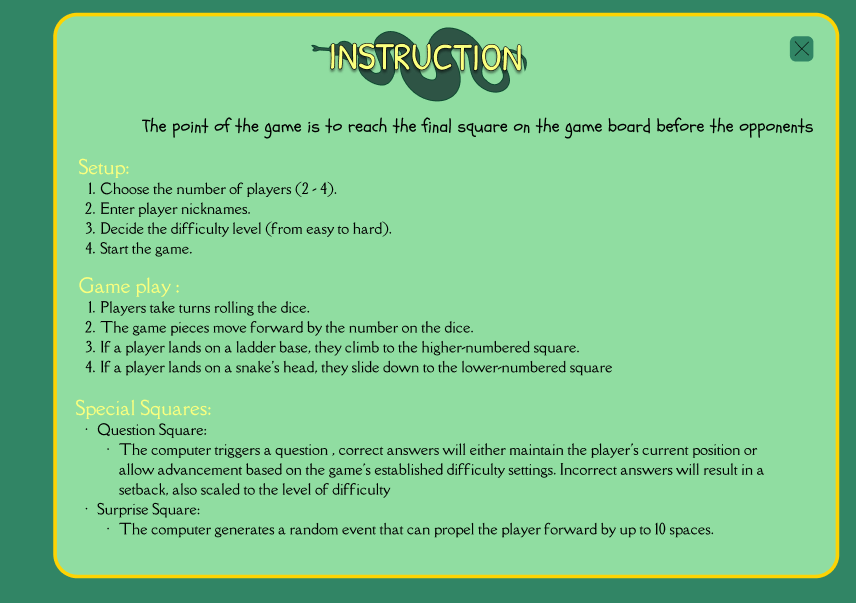
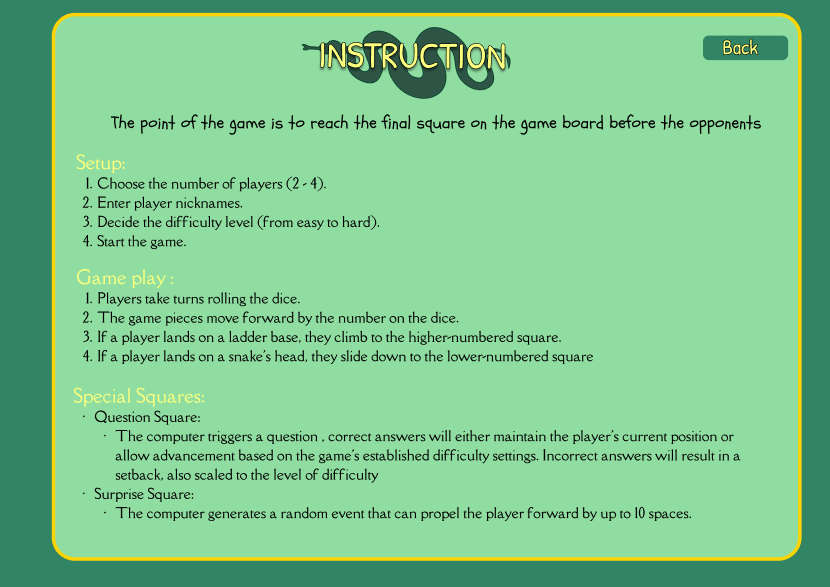
updated instructions view

diff --git a/src/View/GameHistory.java b/src/View/GameHistory.java
@@ -14,6 +14,7 @@ import Model.Questions;
 import Model.SysData;
 
 import java.lang.reflect.Type;
+import javax.swing.table.DefaultTableCellRenderer;
 
 public class GameHistory extends JFrame {
     private JTable table;
@@ -41,7 +42,8 @@ public class GameHistory extends JFrame {
 
         tableModel = new DefaultTableModel() {
             @Override
-            public boolean isCellEditable(int row, int column) {
+            public boolean isCellEditable(int row, int column)
+            {	
                 return false; // Make all cells non-editable
             }
         };
@@ -52,11 +54,45 @@ public class GameHistory extends JFrame {
         tableModel.addColumn("Time");
         
         table = new JTable(tableModel);
-        JScrollPane scrollPane = new JScrollPane(table);
-        table.setFillsViewportHeight(true);
         
-        // Add the JTable to the JFrame
+     // Center text in table cells
+     DefaultTableCellRenderer centerRenderer = new DefaultTableCellRenderer();
+     centerRenderer.setHorizontalAlignment(JLabel.CENTER);
+     table.setDefaultRenderer(Object.class, centerRenderer);
+     table.getTableHeader().setReorderingAllowed(false); // Prevent column reordering
+     table.setFont(new Font("Serif", Font.BOLD, 20)); // Set the table font size
+
+     DefaultTableCellRenderer headerRenderer = new DefaultTableCellRenderer();
+     headerRenderer.setHorizontalAlignment(JLabel.CENTER); // Center text
+     headerRenderer.setForeground(Color.BLACK);
+  // Apply the renderer to each column header
+     for (int i = 0; i < table.getModel().getColumnCount(); i++) {
+         table.getColumnModel().getColumn(i).setHeaderRenderer(headerRenderer);
+     }
+
+     // Custom renderer for table cells
+     DefaultTableCellRenderer cellRenderer = new DefaultTableCellRenderer();
+     cellRenderer.setHorizontalAlignment(JLabel.CENTER); // Center text
+     cellRenderer.setBackground(Color.blue);
+     cellRenderer.setFont(new Font("Serif", Font.BOLD, 30)); // Set font
+
+
+     // Apply the renderer to each column
+     for (int i = 0; i < table.getModel().getColumnCount(); i++) {
+         table.getColumnModel().getColumn(i).setCellRenderer(cellRenderer);
+     }
+     // Set row height and remove grid lines for a cleaner look
+     table.setRowHeight(30); // Adjust row height as needed
+     table.setShowGrid(false);
+        table.setShowHorizontalLines(false);
+        table.setShowVerticalLines(false);
+     // Add the JScrollPane to the JFrame and center it
+        setLayout(new BorderLayout());
+        JScrollPane scrollPane = new JScrollPane(table);
         add(scrollPane, BorderLayout.CENTER);
+        table.setFillsViewportHeight(true);
+        table.setForeground(Color.WHITE);
+      
      // Add rows to the table model
         if (gameList != null) {
             for (GameDetails details : gameList) {
@@ -64,6 +100,7 @@ public class GameHistory extends JFrame {
                 tableModel.addRow(row);
             }
         }
+        
   
     }
 
@@ -82,4 +119,7 @@ public class GameHistory extends JFrame {
 	public void setTableModel(DefaultTableModel tableModel) {
 		this.tableModel = tableModel;
 	}
+	
+
+	
 }

diff --git a/src/View/Instructions.java b/src/View/Instructions.java
@@ -1,0 +1,49 @@
+package View;
+
+import java.awt.EventQueue;
+import javax.swing.ImageIcon;
+import javax.swing.JFrame;
+import javax.swing.JPanel;
+import javax.swing.border.EmptyBorder;
+import javax.swing.JLabel;
+import java.awt.Window.Type;
+import java.awt.event.MouseAdapter;
+import java.awt.event.MouseEvent;
+import java.awt.Font;
+import java.awt.Color;
+
+public class Instructions extends JFrame {
+
+    private static final long serialVersionUID = 1L;
+    private JPanel contentPane;
+
+    public Instructions() {
+        setType(Type.POPUP);
+        setDefaultCloseOperation(JFrame.EXIT_ON_CLOSE);
+        setBounds(10, 10, 860, 640); // Set the bounds of the JFrame
+        contentPane = new JPanel();
+        contentPane.setBorder(new EmptyBorder(5, 5, 5, 5));
+        setContentPane(contentPane);
+        contentPane.setLayout(null);
+        
+        JLabel lblNewLabel_1 = new JLabel("");
+        lblNewLabel_1.setForeground(Color.BLACK);
+        lblNewLabel_1.setFont(new Font("Comic Sans MS", Font.BOLD | Font.ITALIC, 22));
+        lblNewLabel_1.setBounds(730, 52, 60, 20);
+        contentPane.add(lblNewLabel_1);
+        lblNewLabel_1.addMouseListener(new MouseAdapter() {
+            @Override
+            public void mouseClicked(MouseEvent e) {
+                // Create the new JFrame you want to open
+                new MainScreen().setVisible(true);
+                Instructions.this.setVisible(false); //
+            }
+        });
+        JLabel lblNewLabel = new JLabel("");
+        lblNewLabel.setForeground(Color.WHITE);
+        lblNewLabel.setBounds(10, 10, 840, 600);
+        lblNewLabel.setIcon(new ImageIcon(MainScreen.class.getResource("/images/instructions.png")));
+        contentPane.add(lblNewLabel); // Add the label to the content pane
+     
+    }
+}

diff --git a/src/View/MainScreen.java b/src/View/MainScreen.java
@@ -105,11 +105,29 @@ public class MainScreen extends JFrame{
         });
         btnNewButton_2.setBounds(587, 211, 178, 54); // Reduced width and height
         frame.getContentPane().add(btnNewButton_2);
+        JLabel lblNewLabel_1 = new JLabel("");
+        lblNewLabel_1.setIcon(new ImageIcon(MainScreen.class.getResource("/images/inst.png")));
+        lblNewLabel_1.setBounds(720, 30, 70, 40);
+        getContentPane().add(lblNewLabel_1);
+        lblNewLabel_1.addMouseListener(new MouseAdapter() {
+            @Override
+            public void mouseClicked(MouseEvent e) {
+                // Create the new JFrame you want to open
+                Instructions instructionsFrame = new Instructions();
+                instructionsFrame.setVisible(true);
+                MainScreen.this.setVisible(false); //
+            }
+        });
+
+        
+        
         
         JLabel lblNewLabel = new JLabel("");
         lblNewLabel.setIcon(new ImageIcon(MainScreen.class.getResource("/images/Start.png")));
         lblNewLabel.setBounds(-188, -21, 1184, 481);
         getContentPane().add(lblNewLabel);
+        
+        
     }
  // Method to parse JSON file and return a list of GameDetails
     public List<GameDetails> getGameHistory() {
